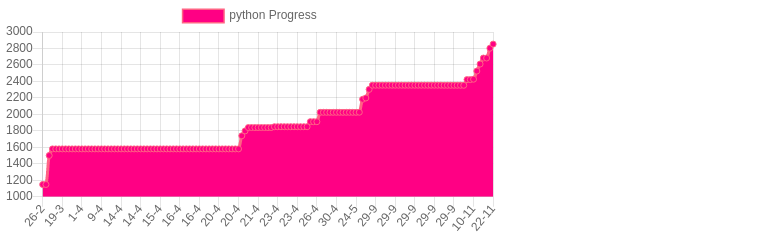
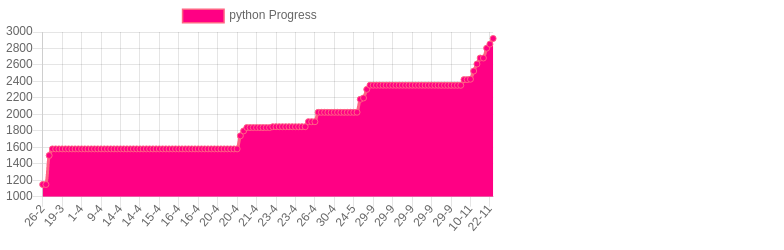
face recognition go and python

Changed region(s): [[0.0918, 0.14, 0.6429, 0.616], [0.0918, 0.784, 0.6429, 0.924]]

diff --git a/total.html b/total.html
@@ -9,7 +9,7 @@
         <script src="https://cdn.jsdelivr.net/npm/chart.js@2.8.0"></script>
         <script>
           var ctx = document.getElementById("total").getContext("2d");
-          const goLabelsDates = ["2021-02-27T01:37:43.112Z","2021-02-27T01:38:01.628Z","2021-03-01T13:41:18.753Z","2021-03-01T14:53:41.991Z","2021-03-01T15:08:00.851Z","2021-03-01T15:09:10.635Z","2021-03-01T15:22:55.385Z","2021-03-03T15:31:41.151Z","2021-03-05T14:02:13.446Z","2021-03-10T14:50:13.297Z","2021-03-11T01:54:03.424Z","2021-03-11T15:32:47.647Z","2021-03-11T16:01:51.191Z","2021-03-12T00:36:04.646Z","2021-03-13T00:14:58.179Z","2021-03-16T05:30:04.043Z","2021-03-17T21:17:52.181Z","2021-03-18T03:42:56.998Z","2021-03-18T03:44:29.834Z","2021-03-18T03:45:35.160Z","2021-03-18T03:45:54.668Z","2021-03-18T03:48:46.007Z","2021-03-18T05:10:54.427Z","2021-03-18T05:44:13.724Z","2021-03-18T05:56:11.032Z","2021-03-18T22:11:28.339Z","2021-03-19T11:28:55.383Z","2021-03-22T13:51:43.977Z","2021-03-23T01:52:09.452Z","2021-03-23T15:45:53.765Z","2021-03-24T01:46:02.104Z","2021-03-30T10:56:50.711Z","2021-04-01T15:03:17.764Z","2021-04-01T23:15:02.096Z","2021-04-07T19:21:55.040Z","2021-04-08T15:21:14.479Z","2021-04-09T23:17:58.037Z","2021-04-09T23:32:26.341Z","2021-04-09T23:34:42.049Z","2021-04-09T23:36:18.092Z","2021-04-10T01:45:40.218Z","2021-04-12T15:41:26.676Z","2021-04-14T02:00:41.039Z","2021-04-14T20:02:44.141Z","2021-04-14T21:14:15.821Z","2021-04-14T22:06:37.573Z","2021-04-14T22:42:14.693Z","2021-04-14T23:10:13.243Z","2021-04-14T23:22:54.824Z","2021-04-14T23:49:37.009Z","2021-04-15T02:28:51.974Z","2021-04-15T14:33:50.618Z","2021-04-15T15:09:11.104Z","2021-04-15T20:35:30.580Z","2021-04-16T00:04:33.158Z","2021-04-16T01:36:06.294Z","2021-04-16T01:53:35.992Z","2021-04-16T02:00:15.474Z","2021-04-16T16:08:40.977Z","2021-04-16T16:27:06.953Z","2021-04-16T16:59:30.526Z","2021-04-16T17:00:53.737Z","2021-04-16T23:14:36.283Z","2021-04-17T00:39:16.890Z","2021-04-17T01:11:09.986Z","2021-04-17T01:32:30.011Z","2021-04-17T01:44:22.446Z","2021-04-17T01:44:33.941Z","2021-04-17T02:35:55.774Z","2021-04-19T15:41:31.091Z","2021-04-20T15:32:32.239Z","2021-04-20T15:33:16.014Z","2021-04-20T15:36:11.438Z","2021-04-20T15:38:44.606Z","2021-04-20T15:41:50.350Z","2021-04-20T15:44:34.448Z","2021-04-20T15:46:49.295Z","2021-04-20T15:47:24.048Z","2021-04-20T15:56:22.046Z","2021-04-20T16:00:02.540Z","2021-04-20T16:01:15.511Z","2021-04-20T23:19:23.938Z","2021-04-21T00:40:54.443Z","2021-04-21T00:47:22.662Z","2021-04-21T02:01:09.006Z","2021-04-21T02:19:22.734Z","2021-04-21T15:53:36.038Z","2021-04-21T16:21:45.704Z","2021-04-21T16:26:32.790Z","2021-04-21T16:40:24.916Z","2021-04-21T16:43:40.235Z","2021-04-21T16:43:59.719Z","2021-04-21T16:44:40.304Z","2021-04-21T16:46:13.191Z","2021-04-21T16:48:41.898Z","2021-04-21T16:49:08.753Z","2021-04-21T16:50:32.397Z","2021-04-21T16:51:58.778Z","2021-04-23T00:49:32.826Z","2021-04-23T15:03:06.320Z","2021-04-23T15:04:13.039Z","2021-04-23T15:05:25.923Z","2021-04-23T15:11:04.285Z","2021-04-23T15:11:38.826Z","2021-04-23T15:12:05.618Z","2021-04-23T15:12:32.508Z","2021-04-23T15:13:17.058Z","2021-04-23T17:08:27.046Z","2021-04-23T18:02:30.357Z","2021-04-23T22:58:36.946Z","2021-04-23T23:00:26.027Z","2021-04-23T23:52:58.438Z","2021-04-24T01:12:51.525Z","2021-04-24T02:01:46.612Z","2021-04-26T12:46:47.336Z","2021-04-26T13:13:50.946Z","2021-04-26T13:16:04.473Z","2021-04-27T00:11:42.582Z","2021-04-30T03:26:37.101Z","2021-04-30T04:33:42.472Z","2021-04-30T05:15:42.646Z","2021-04-30T14:31:10.927Z","2021-05-04T01:51:49.907Z","2021-05-21T00:30:21.777Z","2021-05-24T15:07:09.579Z","2021-05-24T15:08:05.658Z","2021-05-24T15:22:20.903Z","2021-05-24T15:33:34.626Z","2021-05-24T15:46:16.101Z","2021-05-24T15:48:12.171Z","2021-05-24T15:53:54.498Z","2021-05-24T15:56:18.488Z","2021-05-28T22:50:32.914Z","2021-06-02T17:58:30.866Z","2021-07-01T05:04:25.826Z","2021-07-01T05:05:33.079Z","2021-09-03T16:56:54.023Z","2021-09-23T00:10:19.737Z","2021-09-23T00:54:30.987Z","2021-09-25T00:13:33.106Z","2021-09-25T00:56:09.874Z","2021-09-29T20:37:10.460Z","2021-09-29T20:39:45.107Z","2021-09-29T20:45:08.406Z","2021-09-29T20:45:42.995Z","2021-09-29T20:51:54.166Z","2021-09-29T21:04:45.487Z","2021-09-29T21:22:49.580Z","2021-09-29T21:23:34.860Z","2021-09-29T21:24:52.804Z","2021-09-29T21:25:12.938Z","2021-09-29T21:31:41.466Z","2021-09-29T21:32:02.856Z","2021-09-29T21:32:15.096Z","2021-09-29T21:37:01.273Z","2021-09-29T21:39:46.109Z","2021-09-29T21:40:23.862Z","2021-09-29T21:41:38.242Z","2021-09-29T21:45:36.053Z","2021-09-29T21:48:31.229Z","2021-09-29T21:49:46.414Z","2021-09-29T21:50:16.628Z","2021-09-29T21:52:23.035Z","2021-09-29T21:58:46.153Z","2021-09-29T21:59:06.075Z","2021-09-29T22:09:34.545Z","2021-09-29T22:24:59.487Z","2021-09-29T22:39:38.616Z","2021-09-29T23:07:40.178Z","2021-10-01T13:21:48.217Z","2021-10-01T14:11:47.682Z","2021-10-05T00:24:42.303Z","2021-10-05T14:36:34.233Z","2021-10-05T15:30:47.628Z","2021-10-13T14:16:32.194Z","2021-10-14T20:31:14.540Z","2021-10-15T02:04:50.667Z","2021-10-22T22:01:46.214Z","2021-10-26T00:04:54.365Z","2021-10-26T00:05:44.432Z","2021-10-26T13:52:24.065Z","2021-10-26T14:08:20.572Z","2021-11-11T01:24:39.296Z","2021-11-11T02:12:58.681Z","2021-11-11T03:09:01.800Z","2021-11-12T02:26:28.025Z","2021-11-20T00:54:03.498Z","2021-11-20T01:56:10.259Z","2021-11-23T01:08:04.347Z","2021-11-23T01:36:10.103Z",];
+          const goLabelsDates = ["2021-02-27T01:37:43.112Z","2021-02-27T01:38:01.628Z","2021-03-01T13:41:18.753Z","2021-03-01T14:53:41.991Z","2021-03-01T15:08:00.851Z","2021-03-01T15:09:10.635Z","2021-03-01T15:22:55.385Z","2021-03-03T15:31:41.151Z","2021-03-05T14:02:13.446Z","2021-03-10T14:50:13.297Z","2021-03-11T01:54:03.424Z","2021-03-11T15:32:47.647Z","2021-03-11T16:01:51.191Z","2021-03-12T00:36:04.646Z","2021-03-13T00:14:58.179Z","2021-03-16T05:30:04.043Z","2021-03-17T21:17:52.181Z","2021-03-18T03:42:56.998Z","2021-03-18T03:44:29.834Z","2021-03-18T03:45:35.160Z","2021-03-18T03:45:54.668Z","2021-03-18T03:48:46.007Z","2021-03-18T05:10:54.427Z","2021-03-18T05:44:13.724Z","2021-03-18T05:56:11.032Z","2021-03-18T22:11:28.339Z","2021-03-19T11:28:55.383Z","2021-03-22T13:51:43.977Z","2021-03-23T01:52:09.452Z","2021-03-23T15:45:53.765Z","2021-03-24T01:46:02.104Z","2021-03-30T10:56:50.711Z","2021-04-01T15:03:17.764Z","2021-04-01T23:15:02.096Z","2021-04-07T19:21:55.040Z","2021-04-08T15:21:14.479Z","2021-04-09T23:17:58.037Z","2021-04-09T23:32:26.341Z","2021-04-09T23:34:42.049Z","2021-04-09T23:36:18.092Z","2021-04-10T01:45:40.218Z","2021-04-12T15:41:26.676Z","2021-04-14T02:00:41.039Z","2021-04-14T20:02:44.141Z","2021-04-14T21:14:15.821Z","2021-04-14T22:06:37.573Z","2021-04-14T22:42:14.693Z","2021-04-14T23:10:13.243Z","2021-04-14T23:22:54.824Z","2021-04-14T23:49:37.009Z","2021-04-15T02:28:51.974Z","2021-04-15T14:33:50.618Z","2021-04-15T15:09:11.104Z","2021-04-15T20:35:30.580Z","2021-04-16T00:04:33.158Z","2021-04-16T01:36:06.294Z","2021-04-16T01:53:35.992Z","2021-04-16T02:00:15.474Z","2021-04-16T16:08:40.977Z","2021-04-16T16:27:06.953Z","2021-04-16T16:59:30.526Z","2021-04-16T17:00:53.737Z","2021-04-16T23:14:36.283Z","2021-04-17T00:39:16.890Z","2021-04-17T01:11:09.986Z","2021-04-17T01:32:30.011Z","2021-04-17T01:44:22.446Z","2021-04-17T01:44:33.941Z","2021-04-17T02:35:55.774Z","2021-04-19T15:41:31.091Z","2021-04-20T15:32:32.239Z","2021-04-20T15:33:16.014Z","2021-04-20T15:36:11.438Z","2021-04-20T15:38:44.606Z","2021-04-20T15:41:50.350Z","2021-04-20T15:44:34.448Z","2021-04-20T15:46:49.295Z","2021-04-20T15:47:24.048Z","2021-04-20T15:56:22.046Z","2021-04-20T16:00:02.540Z","2021-04-20T16:01:15.511Z","2021-04-20T23:19:23.938Z","2021-04-21T00:40:54.443Z","2021-04-21T00:47:22.662Z","2021-04-21T02:01:09.006Z","2021-04-21T02:19:22.734Z","2021-04-21T15:53:36.038Z","2021-04-21T16:21:45.704Z","2021-04-21T16:26:32.790Z","2021-04-21T16:40:24.916Z","2021-04-21T16:43:40.235Z","2021-04-21T16:43:59.719Z","2021-04-21T16:44:40.304Z","2021-04-21T16:46:13.191Z","2021-04-21T16:48:41.898Z","2021-04-21T16:49:08.753Z","2021-04-21T16:50:32.397Z","2021-04-21T16:51:58.778Z","2021-04-23T00:49:32.826Z","2021-04-23T15:03:06.320Z","2021-04-23T15:04:13.039Z","2021-04-23T15:05:25.923Z","2021-04-23T15:11:04.285Z","2021-04-23T15:11:38.826Z","2021-04-23T15:12:05.618Z","2021-04-23T15:12:32.508Z","2021-04-23T15:13:17.058Z","2021-04-23T17:08:27.046Z","2021-04-23T18:02:30.357Z","2021-04-23T22:58:36.946Z","2021-04-23T23:00:26.027Z","2021-04-23T23:52:58.438Z","2021-04-24T01:12:51.525Z","2021-04-24T02:01:46.612Z","2021-04-26T12:46:47.336Z","2021-04-26T13:13:50.946Z","2021-04-26T13:16:04.473Z","2021-04-27T00:11:42.582Z","2021-04-30T03:26:37.101Z","2021-04-30T04:33:42.472Z","2021-04-30T05:15:42.646Z","2021-04-30T14:31:10.927Z","2021-05-04T01:51:49.907Z","2021-05-21T00:30:21.777Z","2021-05-24T15:07:09.579Z","2021-05-24T15:08:05.658Z","2021-05-24T15:22:20.903Z","2021-05-24T15:33:34.626Z","2021-05-24T15:46:16.101Z","2021-05-24T15:48:12.171Z","2021-05-24T15:53:54.498Z","2021-05-24T15:56:18.488Z","2021-05-28T22:50:32.914Z","2021-06-02T17:58:30.866Z","2021-07-01T05:04:25.826Z","2021-07-01T05:05:33.079Z","2021-09-03T16:56:54.023Z","2021-09-23T00:10:19.737Z","2021-09-23T00:54:30.987Z","2021-09-25T00:13:33.106Z","2021-09-25T00:56:09.874Z","2021-09-29T20:37:10.460Z","2021-09-29T20:39:45.107Z","2021-09-29T20:45:08.406Z","2021-09-29T20:45:42.995Z","2021-09-29T20:51:54.166Z","2021-09-29T21:04:45.487Z","2021-09-29T21:22:49.580Z","2021-09-29T21:23:34.860Z","2021-09-29T21:24:52.804Z","2021-09-29T21:25:12.938Z","2021-09-29T21:31:41.466Z","2021-09-29T21:32:02.856Z","2021-09-29T21:32:15.096Z","2021-09-29T21:37:01.273Z","2021-09-29T21:39:46.109Z","2021-09-29T21:40:23.862Z","2021-09-29T21:41:38.242Z","2021-09-29T21:45:36.053Z","2021-09-29T21:48:31.229Z","2021-09-29T21:49:46.414Z","2021-09-29T21:50:16.628Z","2021-09-29T21:52:23.035Z","2021-09-29T21:58:46.153Z","2021-09-29T21:59:06.075Z","2021-09-29T22:09:34.545Z","2021-09-29T22:24:59.487Z","2021-09-29T22:39:38.616Z","2021-09-29T23:07:40.178Z","2021-10-01T13:21:48.217Z","2021-10-01T14:11:47.682Z","2021-10-05T00:24:42.303Z","2021-10-05T14:36:34.233Z","2021-10-05T15:30:47.628Z","2021-10-13T14:16:32.194Z","2021-10-14T20:31:14.540Z","2021-10-15T02:04:50.667Z","2021-10-22T22:01:46.214Z","2021-10-26T00:04:54.365Z","2021-10-26T00:05:44.432Z","2021-10-26T13:52:24.065Z","2021-10-26T14:08:20.572Z","2021-11-11T01:24:39.296Z","2021-11-11T02:12:58.681Z","2021-11-11T03:09:01.800Z","2021-11-12T02:26:28.025Z","2021-11-20T00:54:03.498Z","2021-11-20T01:56:10.259Z","2021-11-23T01:08:04.347Z","2021-11-23T01:36:10.103Z","2021-11-23T23:01:06.868Z",];
           var chart = new Chart(ctx, {
             type: 'line',
             data: {
@@ -18,7 +18,7 @@
                 label: 'total Progress',
                 backgroundColor: 'rgb(255, 0, 132)',
                 borderColor: 'rgb(255, 99, 132)',
-                data: [7975,7975,8307,8526,8526,8527,8573,9171,9358,9751,9908,10232,10231,10643,10911,11353,12576,12666,0,0,169,12835,12906,12953,12953,13141,13254,13354,13406,13417,13568,13708,13845,14886,15140,15267,15766,15777,15777,15777,16211,16345,17062,17247,17324,17464,17697,17849,17916,18002,18002,18202,18292,18515,18590,18744,18837,18876,19030,19086,19114,19143,19378,19465,19607,19714,19782,19782,19791,20220,20257,20257,20257,20257,20257,20257,20257,20257,20257,20257,20257,21179,21238,21279,21319,21319,21430,21506,21543,65995,0,44452,44452,44452,20233,20233,1629,23172,23326,23693,23693,23693,23693,23693,23693,23693,23693,23693,23693,23693,23693,23905,24023,24262,24275,24376,24376,24452,25078,25182,25238,25232,25233,25334,23696,25427,25453,25466,25491,11565,5707,5707,4421,4535,4535,3678,3678,3678,5861,5318,5422,5473,12667,12667,12667,12667,12667,12667,12667,12667,12667,12667,12667,12667,12667,12667,12667,12667,12667,12667,12658,12658,12657,12657,12657,12657,12683,12736,12779,12888,2619,2775,9772,9922,10674,1795,1824,2002,2000,422,468,543,2427,2526,2611,2684,13391,13661,13756,652,]
+                data: [7975,7975,8307,8526,8526,8527,8573,9171,9358,9751,9908,10232,10231,10643,10911,11353,12576,12666,0,0,169,12835,12906,12953,12953,13141,13254,13354,13406,13417,13568,13708,13845,14886,15140,15267,15766,15777,15777,15777,16211,16345,17062,17247,17324,17464,17697,17849,17916,18002,18002,18202,18292,18515,18590,18744,18837,18876,19030,19086,19114,19143,19378,19465,19607,19714,19782,19782,19791,20220,20257,20257,20257,20257,20257,20257,20257,20257,20257,20257,20257,21179,21238,21279,21319,21319,21430,21506,21543,65995,0,44452,44452,44452,20233,20233,1629,23172,23326,23693,23693,23693,23693,23693,23693,23693,23693,23693,23693,23693,23693,23905,24023,24262,24275,24376,24376,24452,25078,25182,25238,25232,25233,25334,23696,25427,25453,25466,25491,11565,5707,5707,4421,4535,4535,3678,3678,3678,5861,5318,5422,5473,12667,12667,12667,12667,12667,12667,12667,12667,12667,12667,12667,12667,12667,12667,12667,12667,12667,12667,12658,12658,12657,12657,12657,12657,12683,12736,12779,12888,2619,2775,9772,9922,10674,1795,1824,2002,2000,422,468,543,2427,2526,2611,2684,13391,13661,13756,652,6494,]
               }]
             },
           });

diff --git a/python.html b/python.html
@@ -9,7 +9,7 @@
         <script src="https://cdn.jsdelivr.net/npm/chart.js@2.8.0"></script>
         <script>
           var ctx = document.getElementById("python").getContext("2d");
-          const goLabelsDates = ["2021-02-27T01:37:43.111Z","2021-02-27T01:38:01.627Z","2021-03-03T15:31:41.151Z","2021-03-18T05:44:13.724Z","2021-03-18T05:56:11.032Z","2021-03-18T22:11:28.339Z","2021-03-19T11:28:55.382Z","2021-03-22T13:51:43.976Z","2021-03-23T01:52:09.451Z","2021-03-23T15:45:53.764Z","2021-03-24T01:46:02.103Z","2021-03-30T10:56:50.710Z","2021-04-01T15:03:17.763Z","2021-04-01T23:15:02.095Z","2021-04-07T19:21:55.039Z","2021-04-08T15:21:14.478Z","2021-04-09T23:17:58.036Z","2021-04-09T23:32:26.340Z","2021-04-09T23:34:42.048Z","2021-04-09T23:36:18.091Z","2021-04-10T01:45:40.217Z","2021-04-12T15:41:26.675Z","2021-04-14T02:00:41.039Z","2021-04-14T20:02:44.140Z","2021-04-14T21:14:15.820Z","2021-04-14T22:06:37.573Z","2021-04-14T22:42:14.693Z","2021-04-14T23:10:13.242Z","2021-04-14T23:22:54.823Z","2021-04-14T23:49:37.009Z","2021-04-15T02:28:51.973Z","2021-04-15T14:33:50.618Z","2021-04-15T15:09:11.102Z","2021-04-15T20:35:30.579Z","2021-04-16T00:04:33.157Z","2021-04-16T01:36:06.293Z","2021-04-16T01:53:35.991Z","2021-04-16T02:00:15.473Z","2021-04-16T16:08:40.976Z","2021-04-16T16:27:06.952Z","2021-04-16T16:59:30.524Z","2021-04-16T17:00:53.733Z","2021-04-16T23:14:36.282Z","2021-04-17T00:39:16.888Z","2021-04-17T01:11:09.985Z","2021-04-17T01:32:30.008Z","2021-04-17T01:44:22.444Z","2021-04-17T01:44:33.940Z","2021-04-17T02:35:55.773Z","2021-04-19T15:41:31.090Z","2021-04-20T15:32:32.238Z","2021-04-20T15:33:16.013Z","2021-04-20T15:36:11.438Z","2021-04-20T15:38:44.605Z","2021-04-20T15:41:50.349Z","2021-04-20T15:44:34.447Z","2021-04-20T15:46:49.294Z","2021-04-20T15:47:24.047Z","2021-04-20T15:56:22.045Z","2021-04-20T16:00:02.539Z","2021-04-20T16:01:15.511Z","2021-04-20T23:19:23.937Z","2021-04-21T00:40:54.442Z","2021-04-21T00:47:22.661Z","2021-04-21T02:01:09.005Z","2021-04-21T02:19:22.733Z","2021-04-21T15:53:36.037Z","2021-04-21T16:21:45.703Z","2021-04-21T16:26:32.789Z","2021-04-21T16:40:24.916Z","2021-04-21T16:51:58.777Z","2021-04-23T00:49:32.825Z","2021-04-23T15:03:06.327Z","2021-04-23T15:04:13.044Z","2021-04-23T15:05:25.923Z","2021-04-23T15:13:17.062Z","2021-04-23T17:08:27.045Z","2021-04-23T18:02:30.355Z","2021-04-23T22:58:36.945Z","2021-04-23T23:00:26.027Z","2021-04-23T23:52:58.438Z","2021-04-24T01:12:51.524Z","2021-04-24T02:01:46.611Z","2021-04-26T12:46:47.335Z","2021-04-26T13:13:50.945Z","2021-04-26T13:16:04.472Z","2021-04-27T00:11:42.580Z","2021-04-30T03:26:37.099Z","2021-04-30T04:33:42.472Z","2021-04-30T05:15:42.645Z","2021-04-30T14:31:10.926Z","2021-05-04T01:51:49.906Z","2021-05-21T00:30:21.772Z","2021-05-24T15:07:09.573Z","2021-05-24T15:08:05.657Z","2021-05-24T15:22:20.902Z","2021-05-24T15:33:34.625Z","2021-05-24T15:46:16.101Z","2021-09-23T00:54:30.986Z","2021-09-25T00:13:33.105Z","2021-09-25T00:56:09.873Z","2021-09-29T20:37:10.457Z","2021-09-29T20:39:45.106Z","2021-09-29T20:45:08.405Z","2021-09-29T20:45:42.993Z","2021-09-29T20:51:54.165Z","2021-09-29T21:04:45.486Z","2021-09-29T21:22:49.579Z","2021-09-29T21:23:34.859Z","2021-09-29T21:24:52.803Z","2021-09-29T21:25:12.937Z","2021-09-29T21:31:41.464Z","2021-09-29T21:32:02.854Z","2021-09-29T21:32:15.094Z","2021-09-29T21:36:24.778Z","2021-09-29T21:37:01.272Z","2021-09-29T21:39:46.106Z","2021-09-29T21:40:23.860Z","2021-09-29T21:41:38.230Z","2021-09-29T21:45:36.050Z","2021-09-29T21:48:31.221Z","2021-09-29T21:49:46.411Z","2021-09-29T21:50:16.624Z","2021-09-29T21:52:23.032Z","2021-09-29T21:58:46.150Z","2021-09-29T21:59:06.072Z","2021-09-29T22:09:34.542Z","2021-09-29T22:24:59.484Z","2021-09-29T22:39:38.613Z","2021-09-29T23:07:40.175Z","2021-10-01T13:21:48.213Z","2021-10-01T14:11:47.679Z","2021-11-11T01:24:39.291Z","2021-11-11T02:12:58.677Z","2021-11-11T03:09:01.795Z","2021-11-12T02:26:28.020Z","2021-11-20T00:54:03.493Z","2021-11-20T01:56:10.254Z","2021-11-23T01:08:04.342Z",];
+          const goLabelsDates = ["2021-02-27T01:37:43.111Z","2021-02-27T01:38:01.627Z","2021-03-03T15:31:41.151Z","2021-03-18T05:44:13.724Z","2021-03-18T05:56:11.032Z","2021-03-18T22:11:28.339Z","2021-03-19T11:28:55.382Z","2021-03-22T13:51:43.976Z","2021-03-23T01:52:09.451Z","2021-03-23T15:45:53.764Z","2021-03-24T01:46:02.103Z","2021-03-30T10:56:50.710Z","2021-04-01T15:03:17.763Z","2021-04-01T23:15:02.095Z","2021-04-07T19:21:55.039Z","2021-04-08T15:21:14.478Z","2021-04-09T23:17:58.036Z","2021-04-09T23:32:26.340Z","2021-04-09T23:34:42.048Z","2021-04-09T23:36:18.091Z","2021-04-10T01:45:40.217Z","2021-04-12T15:41:26.675Z","2021-04-14T02:00:41.039Z","2021-04-14T20:02:44.140Z","2021-04-14T21:14:15.820Z","2021-04-14T22:06:37.573Z","2021-04-14T22:42:14.693Z","2021-04-14T23:10:13.242Z","2021-04-14T23:22:54.823Z","2021-04-14T23:49:37.009Z","2021-04-15T02:28:51.973Z","2021-04-15T14:33:50.618Z","2021-04-15T15:09:11.102Z","2021-04-15T20:35:30.579Z","2021-04-16T00:04:33.157Z","2021-04-16T01:36:06.293Z","2021-04-16T01:53:35.991Z","2021-04-16T02:00:15.473Z","2021-04-16T16:08:40.976Z","2021-04-16T16:27:06.952Z","2021-04-16T16:59:30.524Z","2021-04-16T17:00:53.733Z","2021-04-16T23:14:36.282Z","2021-04-17T00:39:16.888Z","2021-04-17T01:11:09.985Z","2021-04-17T01:32:30.008Z","2021-04-17T01:44:22.444Z","2021-04-17T01:44:33.940Z","2021-04-17T02:35:55.773Z","2021-04-19T15:41:31.090Z","2021-04-20T15:32:32.238Z","2021-04-20T15:33:16.013Z","2021-04-20T15:36:11.438Z","2021-04-20T15:38:44.605Z","2021-04-20T15:41:50.349Z","2021-04-20T15:44:34.447Z","2021-04-20T15:46:49.294Z","2021-04-20T15:47:24.047Z","2021-04-20T15:56:22.045Z","2021-04-20T16:00:02.539Z","2021-04-20T16:01:15.511Z","2021-04-20T23:19:23.937Z","2021-04-21T00:40:54.442Z","2021-04-21T00:47:22.661Z","2021-04-21T02:01:09.005Z","2021-04-21T02:19:22.733Z","2021-04-21T15:53:36.037Z","2021-04-21T16:21:45.703Z","2021-04-21T16:26:32.789Z","2021-04-21T16:40:24.916Z","2021-04-21T16:51:58.777Z","2021-04-23T00:49:32.825Z","2021-04-23T15:03:06.327Z","2021-04-23T15:04:13.044Z","2021-04-23T15:05:25.923Z","2021-04-23T15:13:17.062Z","2021-04-23T17:08:27.045Z","2021-04-23T18:02:30.355Z","2021-04-23T22:58:36.945Z","2021-04-23T23:00:26.027Z","2021-04-23T23:52:58.438Z","2021-04-24T01:12:51.524Z","2021-04-24T02:01:46.611Z","2021-04-26T12:46:47.335Z","2021-04-26T13:13:50.945Z","2021-04-26T13:16:04.472Z","2021-04-27T00:11:42.580Z","2021-04-30T03:26:37.099Z","2021-04-30T04:33:42.472Z","2021-04-30T05:15:42.645Z","2021-04-30T14:31:10.926Z","2021-05-04T01:51:49.906Z","2021-05-21T00:30:21.772Z","2021-05-24T15:07:09.573Z","2021-05-24T15:08:05.657Z","2021-05-24T15:22:20.902Z","2021-05-24T15:33:34.625Z","2021-05-24T15:46:16.101Z","2021-09-23T00:54:30.986Z","2021-09-25T00:13:33.105Z","2021-09-25T00:56:09.873Z","2021-09-29T20:37:10.457Z","2021-09-29T20:39:45.106Z","2021-09-29T20:45:08.405Z","2021-09-29T20:45:42.993Z","2021-09-29T20:51:54.165Z","2021-09-29T21:04:45.486Z","2021-09-29T21:22:49.579Z","2021-09-29T21:23:34.859Z","2021-09-29T21:24:52.803Z","2021-09-29T21:25:12.937Z","2021-09-29T21:31:41.464Z","2021-09-29T21:32:02.854Z","2021-09-29T21:32:15.094Z","2021-09-29T21:36:24.778Z","2021-09-29T21:37:01.272Z","2021-09-29T21:39:46.106Z","2021-09-29T21:40:23.860Z","2021-09-29T21:41:38.230Z","2021-09-29T21:45:36.050Z","2021-09-29T21:48:31.221Z","2021-09-29T21:49:46.411Z","2021-09-29T21:50:16.624Z","2021-09-29T21:52:23.032Z","2021-09-29T21:58:46.150Z","2021-09-29T21:59:06.072Z","2021-09-29T22:09:34.542Z","2021-09-29T22:24:59.484Z","2021-09-29T22:39:38.613Z","2021-09-29T23:07:40.175Z","2021-10-01T13:21:48.213Z","2021-10-01T14:11:47.679Z","2021-11-11T01:24:39.291Z","2021-11-11T02:12:58.677Z","2021-11-11T03:09:01.795Z","2021-11-12T02:26:28.020Z","2021-11-20T00:54:03.493Z","2021-11-20T01:56:10.254Z","2021-11-23T01:08:04.342Z","2021-11-23T23:01:06.864Z",];
           var chart = new Chart(ctx, {
             type: 'line',
             data: {
@@ -18,7 +18,7 @@
                 label: 'python Progress',
                 backgroundColor: 'rgb(255, 0, 132)',
                 borderColor: 'rgb(255, 99, 132)',
-                data: [1149,1149,1501,1581,1581,1581,1581,1581,1581,1581,1581,1581,1581,1581,1581,1581,1581,1581,1581,1581,1581,1581,1581,1581,1581,1581,1581,1581,1581,1581,1581,1581,1581,1581,1581,1581,1581,1581,1581,1581,1581,1581,1581,1581,1581,1581,1581,1581,1581,1581,1581,1581,1581,1581,1581,1581,1581,1581,1581,1581,1581,1740,1799,1840,1840,1840,1840,1840,1840,1840,1840,1850,1850,1850,1850,1850,1850,1850,1850,1850,1850,1850,1911,1911,1911,2025,2025,2025,2025,2025,2025,2025,2025,2025,2025,2025,2025,2026,2183,2199,2303,2354,2354,2354,2354,2354,2354,2354,2354,2354,2354,2354,2354,2354,2354,2354,2354,2354,2354,2354,2354,2354,2354,2353,2353,2353,2353,2353,2353,2353,2422,2422,2427,2526,2611,2684,2684,2803,2853,]
+                data: [1149,1149,1501,1581,1581,1581,1581,1581,1581,1581,1581,1581,1581,1581,1581,1581,1581,1581,1581,1581,1581,1581,1581,1581,1581,1581,1581,1581,1581,1581,1581,1581,1581,1581,1581,1581,1581,1581,1581,1581,1581,1581,1581,1581,1581,1581,1581,1581,1581,1581,1581,1581,1581,1581,1581,1581,1581,1581,1581,1581,1581,1740,1799,1840,1840,1840,1840,1840,1840,1840,1840,1850,1850,1850,1850,1850,1850,1850,1850,1850,1850,1850,1911,1911,1911,2025,2025,2025,2025,2025,2025,2025,2025,2025,2025,2025,2025,2026,2183,2199,2303,2354,2354,2354,2354,2354,2354,2354,2354,2354,2354,2354,2354,2354,2354,2354,2354,2354,2354,2354,2354,2354,2354,2353,2353,2353,2353,2353,2353,2353,2422,2422,2427,2526,2611,2684,2684,2803,2853,2921,]
               }]
             },
           });

diff --git a/go.html b/go.html
@@ -9,7 +9,7 @@
         <script src="https://cdn.jsdelivr.net/npm/chart.js@2.8.0"></script>
         <script>
           var ctx = document.getElementById("go").getContext("2d");
-          const goLabelsDates = ["2021-02-27T01:37:43.111Z","2021-02-27T01:38:01.627Z","2021-03-01T14:53:41.990Z","2021-03-16T05:30:04.043Z","2021-03-18T05:44:13.724Z","2021-03-18T05:56:11.032Z","2021-03-18T22:11:28.339Z","2021-03-19T11:28:55.382Z","2021-03-22T13:51:43.976Z","2021-03-23T01:52:09.451Z","2021-03-23T15:45:53.764Z","2021-03-24T01:46:02.103Z","2021-03-30T10:56:50.710Z","2021-04-01T15:03:17.763Z","2021-04-01T23:15:02.095Z","2021-04-07T19:21:55.038Z","2021-04-08T15:21:14.478Z","2021-04-09T23:17:58.035Z","2021-04-09T23:32:26.340Z","2021-04-09T23:34:42.047Z","2021-04-09T23:36:18.091Z","2021-04-10T01:45:40.217Z","2021-04-12T15:41:26.675Z","2021-04-14T02:00:41.039Z","2021-04-14T20:02:44.140Z","2021-04-14T21:14:15.820Z","2021-04-14T22:06:37.573Z","2021-04-14T22:42:14.693Z","2021-04-14T23:10:13.242Z","2021-04-14T23:22:54.823Z","2021-04-14T23:49:37.009Z","2021-04-15T02:28:51.973Z","2021-04-15T14:33:50.618Z","2021-04-15T15:09:11.102Z","2021-04-15T20:35:30.579Z","2021-04-16T00:04:33.157Z","2021-04-16T01:36:06.293Z","2021-04-16T01:53:35.991Z","2021-04-16T02:00:15.472Z","2021-04-16T16:08:40.975Z","2021-04-16T16:27:06.952Z","2021-04-16T16:59:30.524Z","2021-04-16T17:00:53.733Z","2021-04-16T23:14:36.282Z","2021-04-17T00:39:16.888Z","2021-04-17T01:11:09.985Z","2021-04-17T01:32:30.008Z","2021-04-17T01:44:22.444Z","2021-04-17T01:44:33.940Z","2021-04-17T02:35:55.773Z","2021-04-19T15:41:31.090Z","2021-04-20T15:32:32.238Z","2021-04-20T15:33:16.013Z","2021-04-20T15:36:11.438Z","2021-04-20T15:38:44.605Z","2021-04-20T15:41:50.349Z","2021-04-20T15:44:34.447Z","2021-04-20T15:46:49.294Z","2021-04-20T15:47:24.047Z","2021-04-20T15:56:22.045Z","2021-04-20T16:00:02.539Z","2021-04-20T16:01:15.510Z","2021-04-20T23:19:23.937Z","2021-04-21T00:40:54.442Z","2021-04-21T00:47:22.661Z","2021-04-21T02:01:09.005Z","2021-04-21T02:19:22.733Z","2021-04-21T15:53:36.037Z","2021-04-21T16:21:45.703Z","2021-04-21T16:26:32.789Z","2021-04-21T16:40:24.916Z","2021-04-21T16:51:58.777Z","2021-04-23T00:49:32.825Z","2021-04-23T15:03:06.327Z","2021-04-23T15:04:13.044Z","2021-04-23T15:05:25.923Z","2021-04-23T15:13:17.062Z","2021-04-23T17:08:27.045Z","2021-04-23T18:02:30.354Z","2021-04-23T22:58:36.945Z","2021-04-23T23:00:26.027Z","2021-04-23T23:52:58.438Z","2021-04-24T01:12:51.524Z","2021-04-24T02:01:46.611Z","2021-04-26T12:46:47.335Z","2021-04-26T13:13:50.945Z","2021-04-26T13:16:04.471Z","2021-04-27T00:11:42.580Z","2021-04-30T03:26:37.098Z","2021-04-30T04:33:42.472Z","2021-04-30T05:15:42.645Z","2021-04-30T14:31:10.926Z","2021-05-04T01:51:49.906Z","2021-05-21T00:30:21.772Z","2021-05-24T15:07:09.573Z","2021-05-24T15:08:05.657Z","2021-05-24T15:22:20.902Z","2021-05-24T15:33:34.625Z","2021-05-24T15:46:16.101Z","2021-07-01T05:05:33.078Z","2021-09-03T16:56:54.022Z","2021-09-23T00:10:19.736Z","2021-09-23T00:54:30.986Z","2021-09-25T00:13:33.105Z","2021-09-25T00:56:09.873Z","2021-09-29T20:37:10.456Z","2021-09-29T20:39:45.106Z","2021-09-29T20:45:08.405Z","2021-09-29T20:45:42.993Z","2021-09-29T20:51:54.165Z","2021-09-29T21:04:45.485Z","2021-09-29T21:22:49.578Z","2021-09-29T21:23:34.859Z","2021-09-29T21:24:52.803Z","2021-09-29T21:25:12.936Z","2021-09-29T21:31:41.464Z","2021-09-29T21:32:02.853Z","2021-09-29T21:32:15.094Z","2021-09-29T21:36:24.777Z","2021-09-29T21:37:01.271Z","2021-09-29T21:39:46.106Z","2021-09-29T21:40:23.860Z","2021-09-29T21:41:38.229Z","2021-09-29T21:45:36.049Z","2021-09-29T21:48:31.220Z","2021-09-29T21:49:46.410Z","2021-09-29T21:50:16.624Z","2021-09-29T21:52:23.032Z","2021-09-29T21:58:46.150Z","2021-09-29T21:59:06.072Z","2021-09-29T22:09:34.542Z","2021-09-29T22:24:59.484Z","2021-09-29T22:39:38.613Z","2021-09-29T23:07:40.175Z","2021-10-01T13:21:48.213Z","2021-10-13T14:16:32.192Z","2021-11-20T00:54:03.493Z","2021-11-20T01:56:10.254Z","2021-11-23T01:08:04.342Z",];
+          const goLabelsDates = ["2021-02-27T01:37:43.111Z","2021-02-27T01:38:01.627Z","2021-03-01T14:53:41.990Z","2021-03-16T05:30:04.043Z","2021-03-18T05:44:13.724Z","2021-03-18T05:56:11.032Z","2021-03-18T22:11:28.339Z","2021-03-19T11:28:55.382Z","2021-03-22T13:51:43.976Z","2021-03-23T01:52:09.451Z","2021-03-23T15:45:53.764Z","2021-03-24T01:46:02.103Z","2021-03-30T10:56:50.710Z","2021-04-01T15:03:17.763Z","2021-04-01T23:15:02.095Z","2021-04-07T19:21:55.038Z","2021-04-08T15:21:14.478Z","2021-04-09T23:17:58.035Z","2021-04-09T23:32:26.340Z","2021-04-09T23:34:42.047Z","2021-04-09T23:36:18.091Z","2021-04-10T01:45:40.217Z","2021-04-12T15:41:26.675Z","2021-04-14T02:00:41.039Z","2021-04-14T20:02:44.140Z","2021-04-14T21:14:15.820Z","2021-04-14T22:06:37.573Z","2021-04-14T22:42:14.693Z","2021-04-14T23:10:13.242Z","2021-04-14T23:22:54.823Z","2021-04-14T23:49:37.009Z","2021-04-15T02:28:51.973Z","2021-04-15T14:33:50.618Z","2021-04-15T15:09:11.102Z","2021-04-15T20:35:30.579Z","2021-04-16T00:04:33.157Z","2021-04-16T01:36:06.293Z","2021-04-16T01:53:35.991Z","2021-04-16T02:00:15.472Z","2021-04-16T16:08:40.975Z","2021-04-16T16:27:06.952Z","2021-04-16T16:59:30.524Z","2021-04-16T17:00:53.733Z","2021-04-16T23:14:36.282Z","2021-04-17T00:39:16.888Z","2021-04-17T01:11:09.985Z","2021-04-17T01:32:30.008Z","2021-04-17T01:44:22.444Z","2021-04-17T01:44:33.940Z","2021-04-17T02:35:55.773Z","2021-04-19T15:41:31.090Z","2021-04-20T15:32:32.238Z","2021-04-20T15:33:16.013Z","2021-04-20T15:36:11.438Z","2021-04-20T15:38:44.605Z","2021-04-20T15:41:50.349Z","2021-04-20T15:44:34.447Z","2021-04-20T15:46:49.294Z","2021-04-20T15:47:24.047Z","2021-04-20T15:56:22.045Z","2021-04-20T16:00:02.539Z","2021-04-20T16:01:15.510Z","2021-04-20T23:19:23.937Z","2021-04-21T00:40:54.442Z","2021-04-21T00:47:22.661Z","2021-04-21T02:01:09.005Z","2021-04-21T02:19:22.733Z","2021-04-21T15:53:36.037Z","2021-04-21T16:21:45.703Z","2021-04-21T16:26:32.789Z","2021-04-21T16:40:24.916Z","2021-04-21T16:51:58.777Z","2021-04-23T00:49:32.825Z","2021-04-23T15:03:06.327Z","2021-04-23T15:04:13.044Z","2021-04-23T15:05:25.923Z","2021-04-23T15:13:17.062Z","2021-04-23T17:08:27.045Z","2021-04-23T18:02:30.354Z","2021-04-23T22:58:36.945Z","2021-04-23T23:00:26.027Z","2021-04-23T23:52:58.438Z","2021-04-24T01:12:51.524Z","2021-04-24T02:01:46.611Z","2021-04-26T12:46:47.335Z","2021-04-26T13:13:50.945Z","2021-04-26T13:16:04.471Z","2021-04-27T00:11:42.580Z","2021-04-30T03:26:37.098Z","2021-04-30T04:33:42.472Z","2021-04-30T05:15:42.645Z","2021-04-30T14:31:10.926Z","2021-05-04T01:51:49.906Z","2021-05-21T00:30:21.772Z","2021-05-24T15:07:09.573Z","2021-05-24T15:08:05.657Z","2021-05-24T15:22:20.902Z","2021-05-24T15:33:34.625Z","2021-05-24T15:46:16.101Z","2021-07-01T05:05:33.078Z","2021-09-03T16:56:54.022Z","2021-09-23T00:10:19.736Z","2021-09-23T00:54:30.986Z","2021-09-25T00:13:33.105Z","2021-09-25T00:56:09.873Z","2021-09-29T20:37:10.456Z","2021-09-29T20:39:45.106Z","2021-09-29T20:45:08.405Z","2021-09-29T20:45:42.993Z","2021-09-29T20:51:54.165Z","2021-09-29T21:04:45.485Z","2021-09-29T21:22:49.578Z","2021-09-29T21:23:34.859Z","2021-09-29T21:24:52.803Z","2021-09-29T21:25:12.936Z","2021-09-29T21:31:41.464Z","2021-09-29T21:32:02.853Z","2021-09-29T21:32:15.094Z","2021-09-29T21:36:24.777Z","2021-09-29T21:37:01.271Z","2021-09-29T21:39:46.106Z","2021-09-29T21:40:23.860Z","2021-09-29T21:41:38.229Z","2021-09-29T21:45:36.049Z","2021-09-29T21:48:31.220Z","2021-09-29T21:49:46.410Z","2021-09-29T21:50:16.624Z","2021-09-29T21:52:23.032Z","2021-09-29T21:58:46.150Z","2021-09-29T21:59:06.072Z","2021-09-29T22:09:34.542Z","2021-09-29T22:24:59.484Z","2021-09-29T22:39:38.613Z","2021-09-29T23:07:40.175Z","2021-10-01T13:21:48.213Z","2021-10-13T14:16:32.192Z","2021-11-20T00:54:03.493Z","2021-11-20T01:56:10.254Z","2021-11-23T01:08:04.342Z","2021-11-23T23:01:06.863Z",];
           var chart = new Chart(ctx, {
             type: 'line',
             data: {
@@ -18,7 +18,7 @@
                 label: 'go Progress',
                 backgroundColor: 'rgb(255, 0, 132)',
                 borderColor: 'rgb(255, 99, 132)',
-                data: [1982,1982,2201,2307,2307,2307,2307,2307,2307,2337,2337,2337,2337,2337,2337,2337,2337,2337,2337,2337,2337,2337,2337,2337,2337,2337,2337,2337,2337,2337,2337,2337,2337,2337,2337,2337,2337,2337,2337,2337,2337,2337,2337,2337,2337,2337,2337,2337,2337,2337,2766,2803,2803,2803,2803,2803,2803,2803,2803,2803,2803,2803,3012,3012,3012,3012,3012,3012,3012,3012,3012,3012,3012,3012,3012,3012,3012,3012,3012,3012,3012,3012,3012,3012,3012,3012,3012,3012,3012,3012,3012,3012,3012,3012,3012,3012,3012,3012,3012,3061,3061,3061,3061,3061,3061,3061,3061,3061,3061,3061,3061,3061,3061,3061,3061,3061,3061,3061,3061,3061,3061,3061,3061,3061,3061,3052,3052,3052,3052,3052,3052,3078,3131,3174,3214,3330,3362,3468,3488,]
+                data: [1982,1982,2201,2307,2307,2307,2307,2307,2307,2337,2337,2337,2337,2337,2337,2337,2337,2337,2337,2337,2337,2337,2337,2337,2337,2337,2337,2337,2337,2337,2337,2337,2337,2337,2337,2337,2337,2337,2337,2337,2337,2337,2337,2337,2337,2337,2337,2337,2337,2337,2766,2803,2803,2803,2803,2803,2803,2803,2803,2803,2803,2803,3012,3012,3012,3012,3012,3012,3012,3012,3012,3012,3012,3012,3012,3012,3012,3012,3012,3012,3012,3012,3012,3012,3012,3012,3012,3012,3012,3012,3012,3012,3012,3012,3012,3012,3012,3012,3012,3061,3061,3061,3061,3061,3061,3061,3061,3061,3061,3061,3061,3061,3061,3061,3061,3061,3061,3061,3061,3061,3061,3061,3061,3061,3061,3052,3052,3052,3052,3052,3052,3078,3131,3174,3214,3330,3362,3468,3488,3573,]
               }]
             },
           });

diff --git a/config.js b/config.js
@@ -34,22 +34,22 @@ const configLn = [
     ],
     goal: 7000
   }, */
-  {
+  /* {
     ln: 'react',
     title: "React",
     subjects: [
       "Testing, builds"
     ],
     goal: 10000
-  },
-  {
+  }, */
+ /*  {
     ln: 'angular',
     title: "Angular",
     subjects: [
       "Auth"
     ],
     goal: 10000
-  },
+  }, */
   /*  {
      ln: 'ts',
      title: "TS",
@@ -82,18 +82,18 @@ const configLn = [
     subjects: [],
     goal: 500
   }, */
-   /* {
+   {
     ln: 'go',
     title: "go",
     subjects: ["structs", "loops"],
     goal: 3000
-  }, */
-  /* {
+  },
+  {
     ln: 'python',
     title: "python",
     subjects: ["collections", ""],
     goal: 2000
-  }, */
+  },
   /* {
     ln: 'ruby',
     title: "ruby",

diff --git a/Readme.md b/Readme.md
@@ -1,12 +1,12 @@
 # All count
 |Language|Goal|Lines%|%|%|%|Subjects|
 |----------|-------|-------|--------|--------|--------|--------|
-|react|10000|618|6|![react](https://raw.githubusercontent.com/kapit4n/l-10000-dev/master/react.png)|Testing, builds|custom hook session, react context local staorage, react context update, react context, react custom hook, react hooks tips, react hooks, login logout redux, components|
-|angular|10000|34|0|![angular](https://raw.githubusercontent.com/kapit4n/l-10000-dev/master/angular.png)|Auth|login logout|
-|TOTAL|652|3.260%|
+|go|10000|3573|36|![go](https://raw.githubusercontent.com/kapit4n/l-10000-dev/master/go.png)|structs, loops|consumingRESTfulAPI, data structures, design pattern, go slices, image file url, mysql, queue, web3, auth0, fiber example, defer feature, mux, face recognition|
+|python|10000|2921|29|![python](https://raw.githubusercontent.com/kapit4n/l-10000-dev/master/python.png)|collections, |algorithms, authentication jwt, authentication vs autorization, aws s3 boto3, django pdf, django tips, g cloud storage, login django, login flask, mysql, unit tests, web3, yield, auth0, face recognition, video face recognition|
+|TOTAL|6494|32.470%|
 10/02(0)
 
-10/03(652)
+10/03(6494)
 
 
   # run it
@@ -29,4 +29,4 @@
   * Angular, React, Vue
   * Spring, Play
   * Scala, Java
-  , 2021-11-23T01:36:10.103Z
+  , 2021-11-23T23:01:06.868Z
